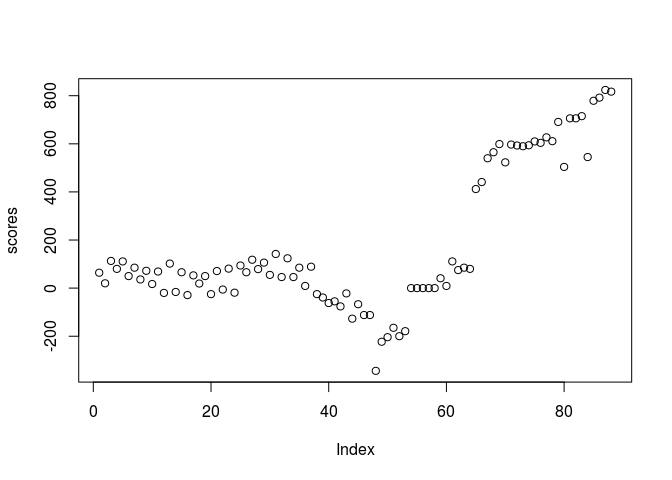
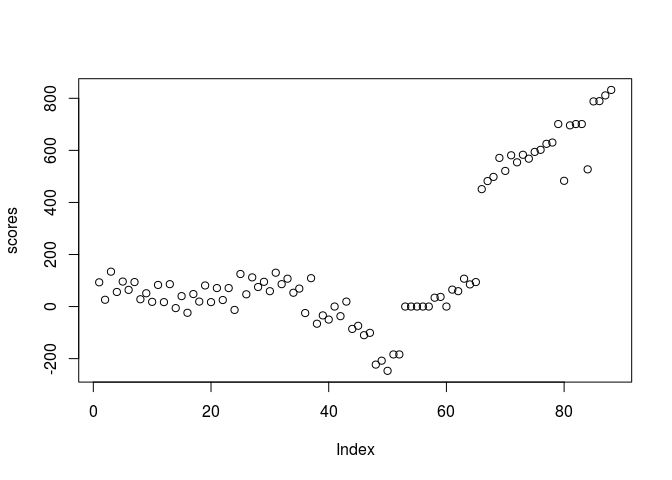
minor

diff --git a/README.md b/README.md
@@ -116,7 +116,7 @@ stockStep(posString = 'startpos moves e2e4',movetime= 1000, stockfish = stockfis
     ## [1] "g1f3"
     ## 
     ## $score
-    ## [1] -22
+    ## [1] -17
     ## 
     ## $scoreType
     ## [1] "cp"
@@ -131,13 +131,13 @@ stockStep(board,movetime= 2000, stockfish = stockfish,translate = TRUE)
 ```
 
     ## $bestmove
-    ## [1] "d4"
+    ## [1] "e4"
     ## 
     ## $ponder
-    ## [1] "d5"
+    ## [1] "c5"
     ## 
     ## $score
-    ## [1] 61
+    ## [1] 68
     ## 
     ## $scoreType
     ## [1] "cp"
@@ -195,7 +195,7 @@ animateGame(board,file = 'README_files/kasparov_vs_topalov.gif',
 
 ### Running games
 
-Here I'll use `stockfisher` to run a timed game between 2 AI opponents. 2 stockfish sessions are used here to demonstrate pondering (setting `ponder=TRUE` allows the engine to continue processing assuming the opponent will move as predicted in `ponder`). In this context one of the players can be replaced with a different engine. A simpler implementation
+Here I'll use `stockfisher` to run a timed game between 2 AI opponents. 2 stockfish sessions are used here to demonstrate pondering (setting `ponder=TRUE` allows the engine to continue processing assuming the opponent will move as predicted in `ponder`). In this context one of the players can be replaced with a different engine. A simpler implementation with a single session is also possible if you just want to see how the engine functions under different parameters without pondering.
 
 ``` r
 library(tictoc)
@@ -218,11 +218,11 @@ ponder = list(
 
 # timer for each player
 # lets give white an edge
-# white has 2 minutes
-# black has 1.5
+# white has 2.5 minutes
+# black has 1
 timer = list(
     w = 120000,
-    b = 90000
+    b = 120000
 )
 
 board = Chess$new()
@@ -277,7 +277,7 @@ animateGame(board,file = 'README_files/stockfish_vs_stockfish.gif',
 
 ![](README_files/stockfish_vs_stockfish.gif)
 
-The resulting game can be analyzed using `gameAnalysis`.
+The resulting game can be analyzed using `gameAnalysis`. These games tend to end in a stalemate as both engines have access to the same resources. One could try giving less time to one of the players but with pondering on, any time one player spends thinking gives other player the time to think, especially since they are more likely to ponderhit each other since they are the same engine.
 
 ``` r
 evaluations = gameAnalysis(board,movetime = 500,stockfish = stockfish,progress = FALSE)
@@ -287,6 +287,14 @@ plot(scores)
 ```
 
 ![](README_files/figure-markdown_github/stockfishAnalysis-1.png)
+
+How did the game end? `rchess` doesn't include a single function to get the game state to we have
+
+``` r
+gameState(board)
+```
+
+    ## [1] "draw-threefold repetition"
 
 Finally use `stopStockfish` to stop the engine process
 
